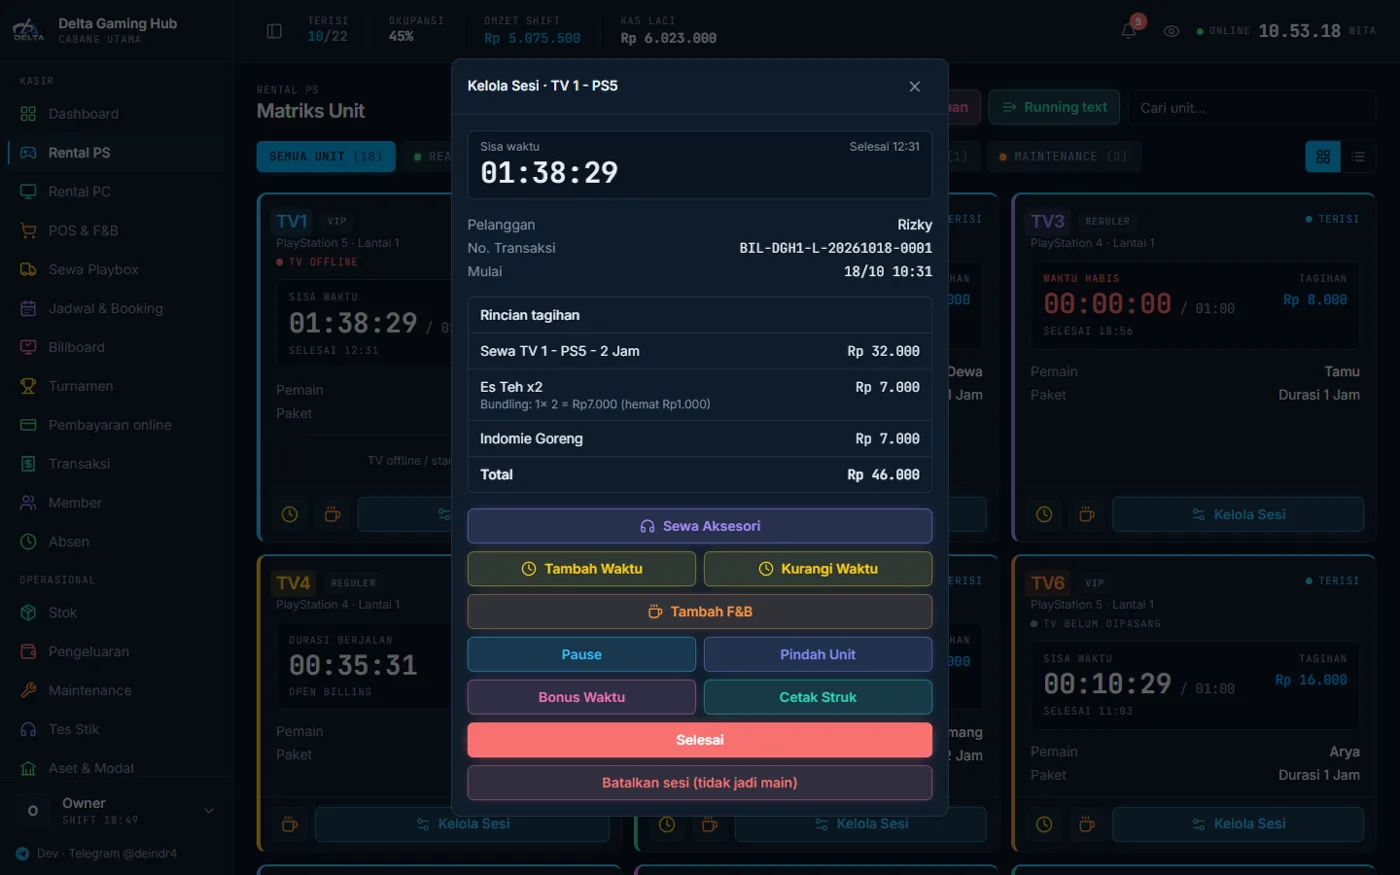
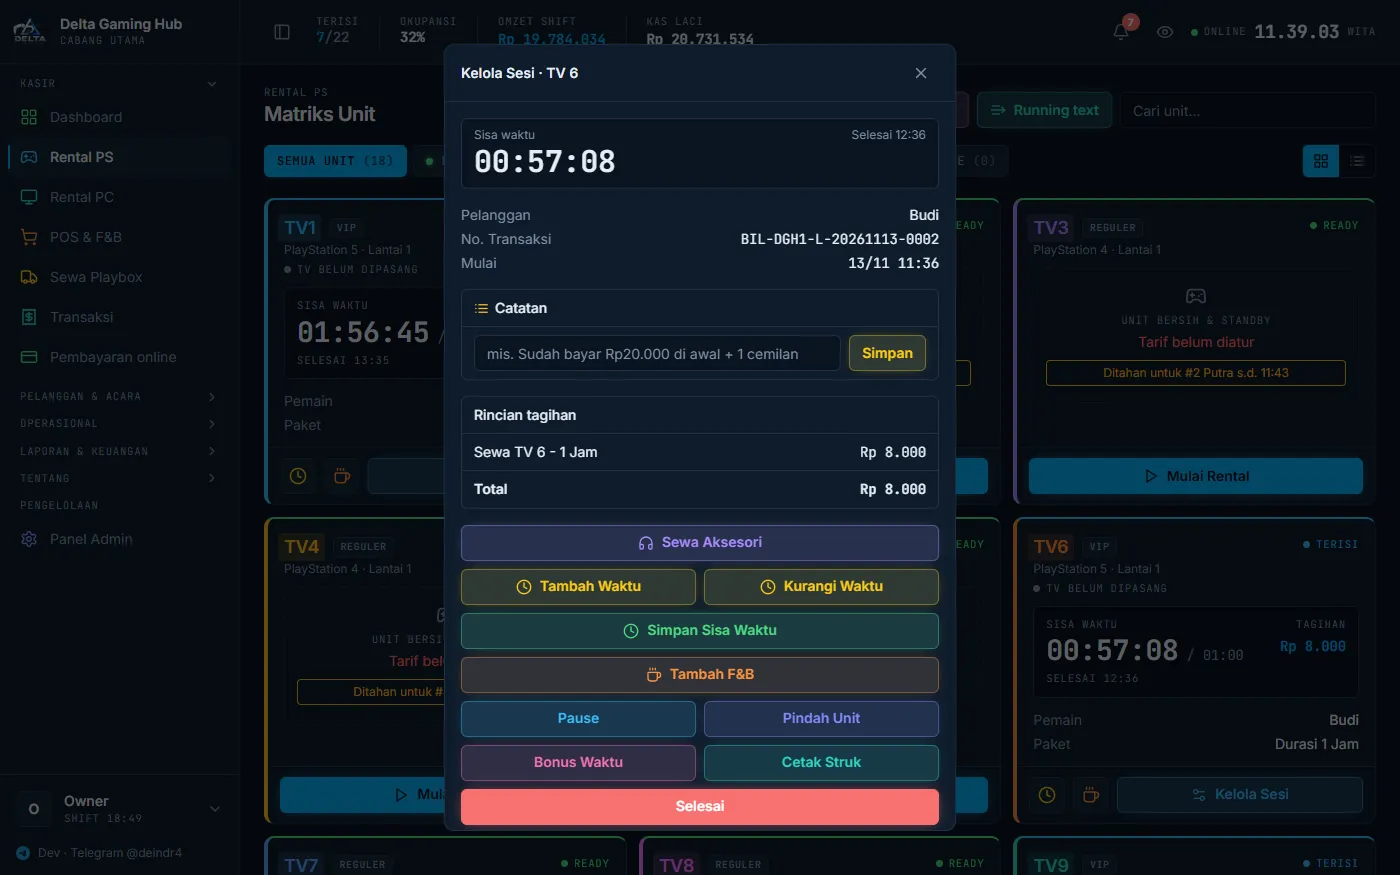
README: fitur & screenshot v1.4.3–v1.4.13 (diskon & voucher, simpan sisa waktu, antrean tunggu, kasbon, laporan bulanan, slide show iklan TV, kesehatan database)

diff --git a/README.md b/README.md
@@ -51,7 +51,15 @@ Jalan di PC rental (offline-first) dan bisa disinkron ke server cloud (Delta Clo
 <table>
   <tr>
     <td width="50%"><img src="docs/gambar/kasir-dashboard.webp" alt="Dashboard kasir"><br><sub><b>Dashboard</b> — pendapatan & laba hari ini, alamat server, status cloud & sinkron, TV / PC online, unit siap</sub></td>
-    <td width="50%"><img src="docs/gambar/kasir-kelola-sesi.webp" alt="Kelola sesi"><br><sub><b>Kelola sesi</b> — tambah / kurangi waktu, F&B, pause, pindah unit, bonus waktu, struk</sub></td>
+    <td width="50%"><img src="docs/gambar/kasir-kelola-sesi.webp" alt="Kelola sesi"><br><sub><b>Kelola sesi</b> — tambah / kurangi waktu, simpan sisa waktu, F&B, aksesori, pause, pindah unit, bonus waktu, catatan TV, struk</sub></td>
+  </tr>
+  <tr>
+    <td><img src="docs/gambar/kasir-simpan-waktu.webp" alt="Simpan sisa waktu"><br><sub><b>Simpan sisa waktu</b> — berhenti lebih awal, sisa menit disimpan ke member & dipakai lain hari (Rp0); batas dari admin, PIN di atas batas</sub></td>
+    <td><img src="docs/gambar/kasir-diskon.webp" alt="Diskon kasir"><br><sub><b>Diskon & voucher saat bayar</b> — persen / rupiah dengan alasan, PIN supervisor di atas batas; kode voucher / promo</sub></td>
+  </tr>
+  <tr>
+    <td><img src="docs/gambar/kasir-antrean.webp" alt="Antrean tunggu"><br><sub><b>Antrean tunggu</b> — TV penuh? pelanggan antre (dari kasir / HP), TV kosong langsung ditahan 5 menit + WhatsApp otomatis</sub></td>
+    <td></td>
   </tr>
   <tr>
     <td><img src="docs/gambar/kasir-kurangi-waktu.webp" alt="Kurangi waktu"><br><sub><b>Kurangi waktu</b> — dipesan 2 jam ternyata 1 jam: harga dihitung proporsional, kembalian tunai dari laci</sub></td>
@@ -119,7 +127,7 @@ port yang dipakai, dan **backup database** walau billing mati.
   </tr>
   <tr>
     <td><img src="docs/gambar/tv-transisi-logo.webp" alt="Transisi logo"><br><sub><b>Transisi logo</b> saat mulai & selesai main</sub></td>
-    <td></td>
+    <td><img src="docs/gambar/tv-slide-iklan.webp" alt="Slide show iklan"><br><sub><b>Slide show iklan</b> di layar kunci — promo bergantian, masa tayang per iklan; <b>mode iklan</b> saat TV menganggur (APK 1.0.6)</sub></td>
   </tr>
 </table>
 
@@ -149,7 +157,15 @@ port yang dipakai, dan **backup database** walau billing mati.
   </tr>
   <tr>
     <td><img src="docs/gambar/admin-supplier.webp" alt="Supplier"><br><sub><b>Supplier</b> — kontak, catatan & riwayat pembelian</sub></td>
-    <td></td>
+    <td><img src="docs/gambar/admin-laporan-bulanan.webp" alt="Laporan bulanan"><br><sub><b>Laporan Bulanan Lengkap</b> — laba rugi vs bulan lalu, poin penting, grafik harian, unit & jam ramai; PDF & CSV</sub></td>
+  </tr>
+  <tr>
+    <td><img src="docs/gambar/admin-voucher.webp" alt="Voucher & promo"><br><sub><b>Voucher & promo</b> — potongan persen / rupiah / gratis main, kuota, jam berlaku, batas per member</sub></td>
+    <td><img src="docs/gambar/admin-kasbon.webp" alt="Kasbon"><br><sub><b>Kasbon karyawan</b> — dicicil otomatis per gajian; potongan terlambat per menit / bertingkat</sub></td>
+  </tr>
+  <tr>
+    <td><img src="docs/gambar/admin-slide-show.webp" alt="Slide show TV"><br><sub><b>Slide show layar kunci</b> — sampai 10 gambar, urutan, durasi, efek, tanggal mulai & kedaluwarsa per iklan</sub></td>
+    <td><img src="docs/gambar/admin-kesehatan-db.webp" alt="Kesehatan database"><br><sub><b>Kesehatan database</b> — ukuran per tabel, masa simpan log, tombol optimasi; data transaksi tidak pernah dihapus</sub></td>
   </tr>
   <tr>
     <td><img src="docs/gambar/publik-billboard.webp" alt="Billboard"><br><sub><b>Billboard</b> — PlayStation & PC terpisah, tampilan Grid / List, slider iklan, turnamen di atas</sub></td>
@@ -167,10 +183,14 @@ port yang dipakai, dan **backup database** walau billing mati.
 - Matriks unit realtime: ready, terisi, menunggu bayar, maintenance — sisa waktu, tagihan & status TV per kartu (kotak / daftar).
 - Mode **paket / durasi** (hitung mundur) dan **open billing** (blok menit, minimal tagih, toleransi, pembulatan).
 - **Waktu pilih game** tidak ditagih, tambah waktu, **kurangi waktu** (harga proporsional), **bonus waktu**, pause & resume, batal tambah waktu & batal sesi.
+- **Simpan sisa waktu** ke member: berhenti lebih awal → sisa menit dipakai lain hari atau ditambahkan di tengah sesi (Rp0).
+  Batas dari admin (maks sekali simpan, saldo per member, masa berlaku), PIN supervisor di atas batas.
+- **Antrean tunggu** saat TV penuh: daftar dari kasir atau HP pelanggan, TV yang kosong ditahan 5 menit + **WhatsApp otomatis**.
 - **Pindah unit dengan konversi tarif** (PS5 ↔ PS4): sisa waktu tetap, tagihan disesuaikan.
 - Status **Sedang dibersihkan** setelah sesi selesai & lunas (aktif per cabang, manual atau otomatis).
+- **Catatan per TV** (mis. "sudah bayar Rp20.000 di awal"), pembulatan harga durasi, hapus turnamen batal.
 - Satu TV beberapa konsol (nama per **HDMI**), tarif per tipe konsol, kategori unit (VIP / reguler), paket & aturan harga.
-- **Rental PC** di menu terpisah, member & laporan tetap satu.
+- **Rental PC** di menu terpisah (katalog game & pindai game per PC), member & laporan tetap satu.
 </details>
 
 <details>
@@ -179,7 +199,10 @@ port yang dipakai, dan **backup database** walau billing mati.
 - TV **terkunci** di luar sesi; saat main pindah otomatis ke HDMI PS, saat habis kembali terkunci.
 - Timer dihitung **di TV** (aman saat offline), peringatan sisa waktu: angka merah, berkedip, bunyi.
 - Remote dari kasir: volume, matikan / bangunkan layar, restart, pindah HDMI, pemberitahuan, running text.
-- **Bypass** berdurasi dengan PIN, **kode darurat** offline, akses staf.
+- **Slide show iklan** di layar kunci: sampai 10 gambar promo, durasi & efek diatur admin, **masa tayang per iklan**
+  (mulai & kedaluwarsa, otomatis hilang dari TV), **mode iklan** saat TV menganggur. Gambar disimpan di TV, hemat memori.
+- Timer melayang selalu tampil atau sesuai kondisi, posisi per cabang / per unit.
+- **Bypass** berdurasi dengan PIN, **kode darurat** offline, akses staf (PIN tetap bisa saat server tidak terjangkau).
 - **Failover** lokal ↔ cloud, mode kiosk, update APK dari server (push ke semua TV, rollback).
 </details>
 
@@ -190,7 +213,12 @@ port yang dipakai, dan **backup database** walau billing mati.
 - Stok per cabang dengan HPP rata-rata, stok masuk dari **supplier** + nota, **opname**, mutasi.
 - **Laporan pembelian, selisih harga pokok, laba penjualan F&B & neraca** (Owner & Admin).
 - **Shift kas** satu laci per cabang + **serah terima**, selisih kas tercatat, pengeluaran dengan PIN.
-- **Karyawan**: jadwal, **absen PIN + selfie**, **rekap gaji** & bonus, slip gaji.
+- **Diskon kasir saat bayar** (persen / rupiah, alasan wajib, PIN supervisor di atas batas) & **voucher / kode promo**
+  (potongan persen, rupiah, atau gratis main; kuota, jam berlaku, batas per member).
+- **Koreksi rincian bayar** (split tunai / QRIS / transfer) & koreksi metode bayar oleh owner, tercatat di log.
+- **Karyawan**: jadwal, **absen PIN + selfie**, **rekap gaji** & bonus, slip gaji, **kasbon** dicicil per gajian,
+  **potongan terlambat** (per menit / bertingkat, toleransi).
+- **Laporan Bulanan Lengkap** (PDF): laba rugi vs bulan lalu, arus kas, neraca, poin penting, grafik, unit & jam ramai.
 - **Sewa Playbox** (PS bawa pulang): penyewa + lokasi Maps, foto & KTP privat, tarif jam/hari/minggu/bulan, jaminan, checklist, surat sewa, denda, pengingat WA.
 - Pembayaran tunai, QRIS, transfer, saldo member, campuran; **bayar sekaligus** beberapa tagihan; struk Bluetooth & WhatsApp.
 - **Dashboard utama**, **ringkasan harian ke owner** (Telegram / WhatsApp), **Laporan Detail** & ekspor CSV.
@@ -221,7 +249,7 @@ port yang dipakai, dan **backup database** walau billing mati.
 
 - Member: saldo top-up, **poin**, **stamp**, **tier** dengan diskon otomatis.
 - **Booking online** dari HP, antrean lounge, **turnamen** (gugur, gugur ganda, liga, fase grup) dengan bagan publik.
-- **Billboard** publik: status stasiun, turnamen, slider iklan.
+- **Billboard** publik: status stasiun, turnamen, slider iklan, **poster QR A4** siap cetak (logo rental di tengah QR).
 - **Lonceng notifikasi** (Playbox telat, pembatalan, booking, selisih kas, stok, keamanan, sistem); yang penting juga ke Telegram / WA.
 </details>
 
@@ -232,6 +260,10 @@ port yang dipakai, dan **backup database** walau billing mati.
 - Multi-cabang; role **Owner, Supervisor, Kasir, Teknisi** + PIN persetujuan; log audit & anomali; sudah melalui pentest.
 - Backup harian otomatis + pulihkan; **otomatis ke Google Drive** pemilik — [panduan](docs/backup-google-drive.md).
 - **Cloudflare Tunnel** dari admin, laporan ke **Telegram** & **WhatsApp**, **cek update** otomatis.
+- **Kesehatan & optimasi database**: ukuran per tabel, masa simpan log bisa diatur, tombol optimasi (log lama dirapikan
+  otomatis tiap malam; data transaksi tidak pernah dihapus).
+- **Monitor** Windows: status & restart layanan, IP perangkat, atur **IP statis**, backup darurat.
+- Komponen installer selalu versi aman (mis. Apache 2.4.71 untuk CVE-2026-119618, PHP 8.4.27, Node.js 24.22.1).
 </details>
 
 ---
